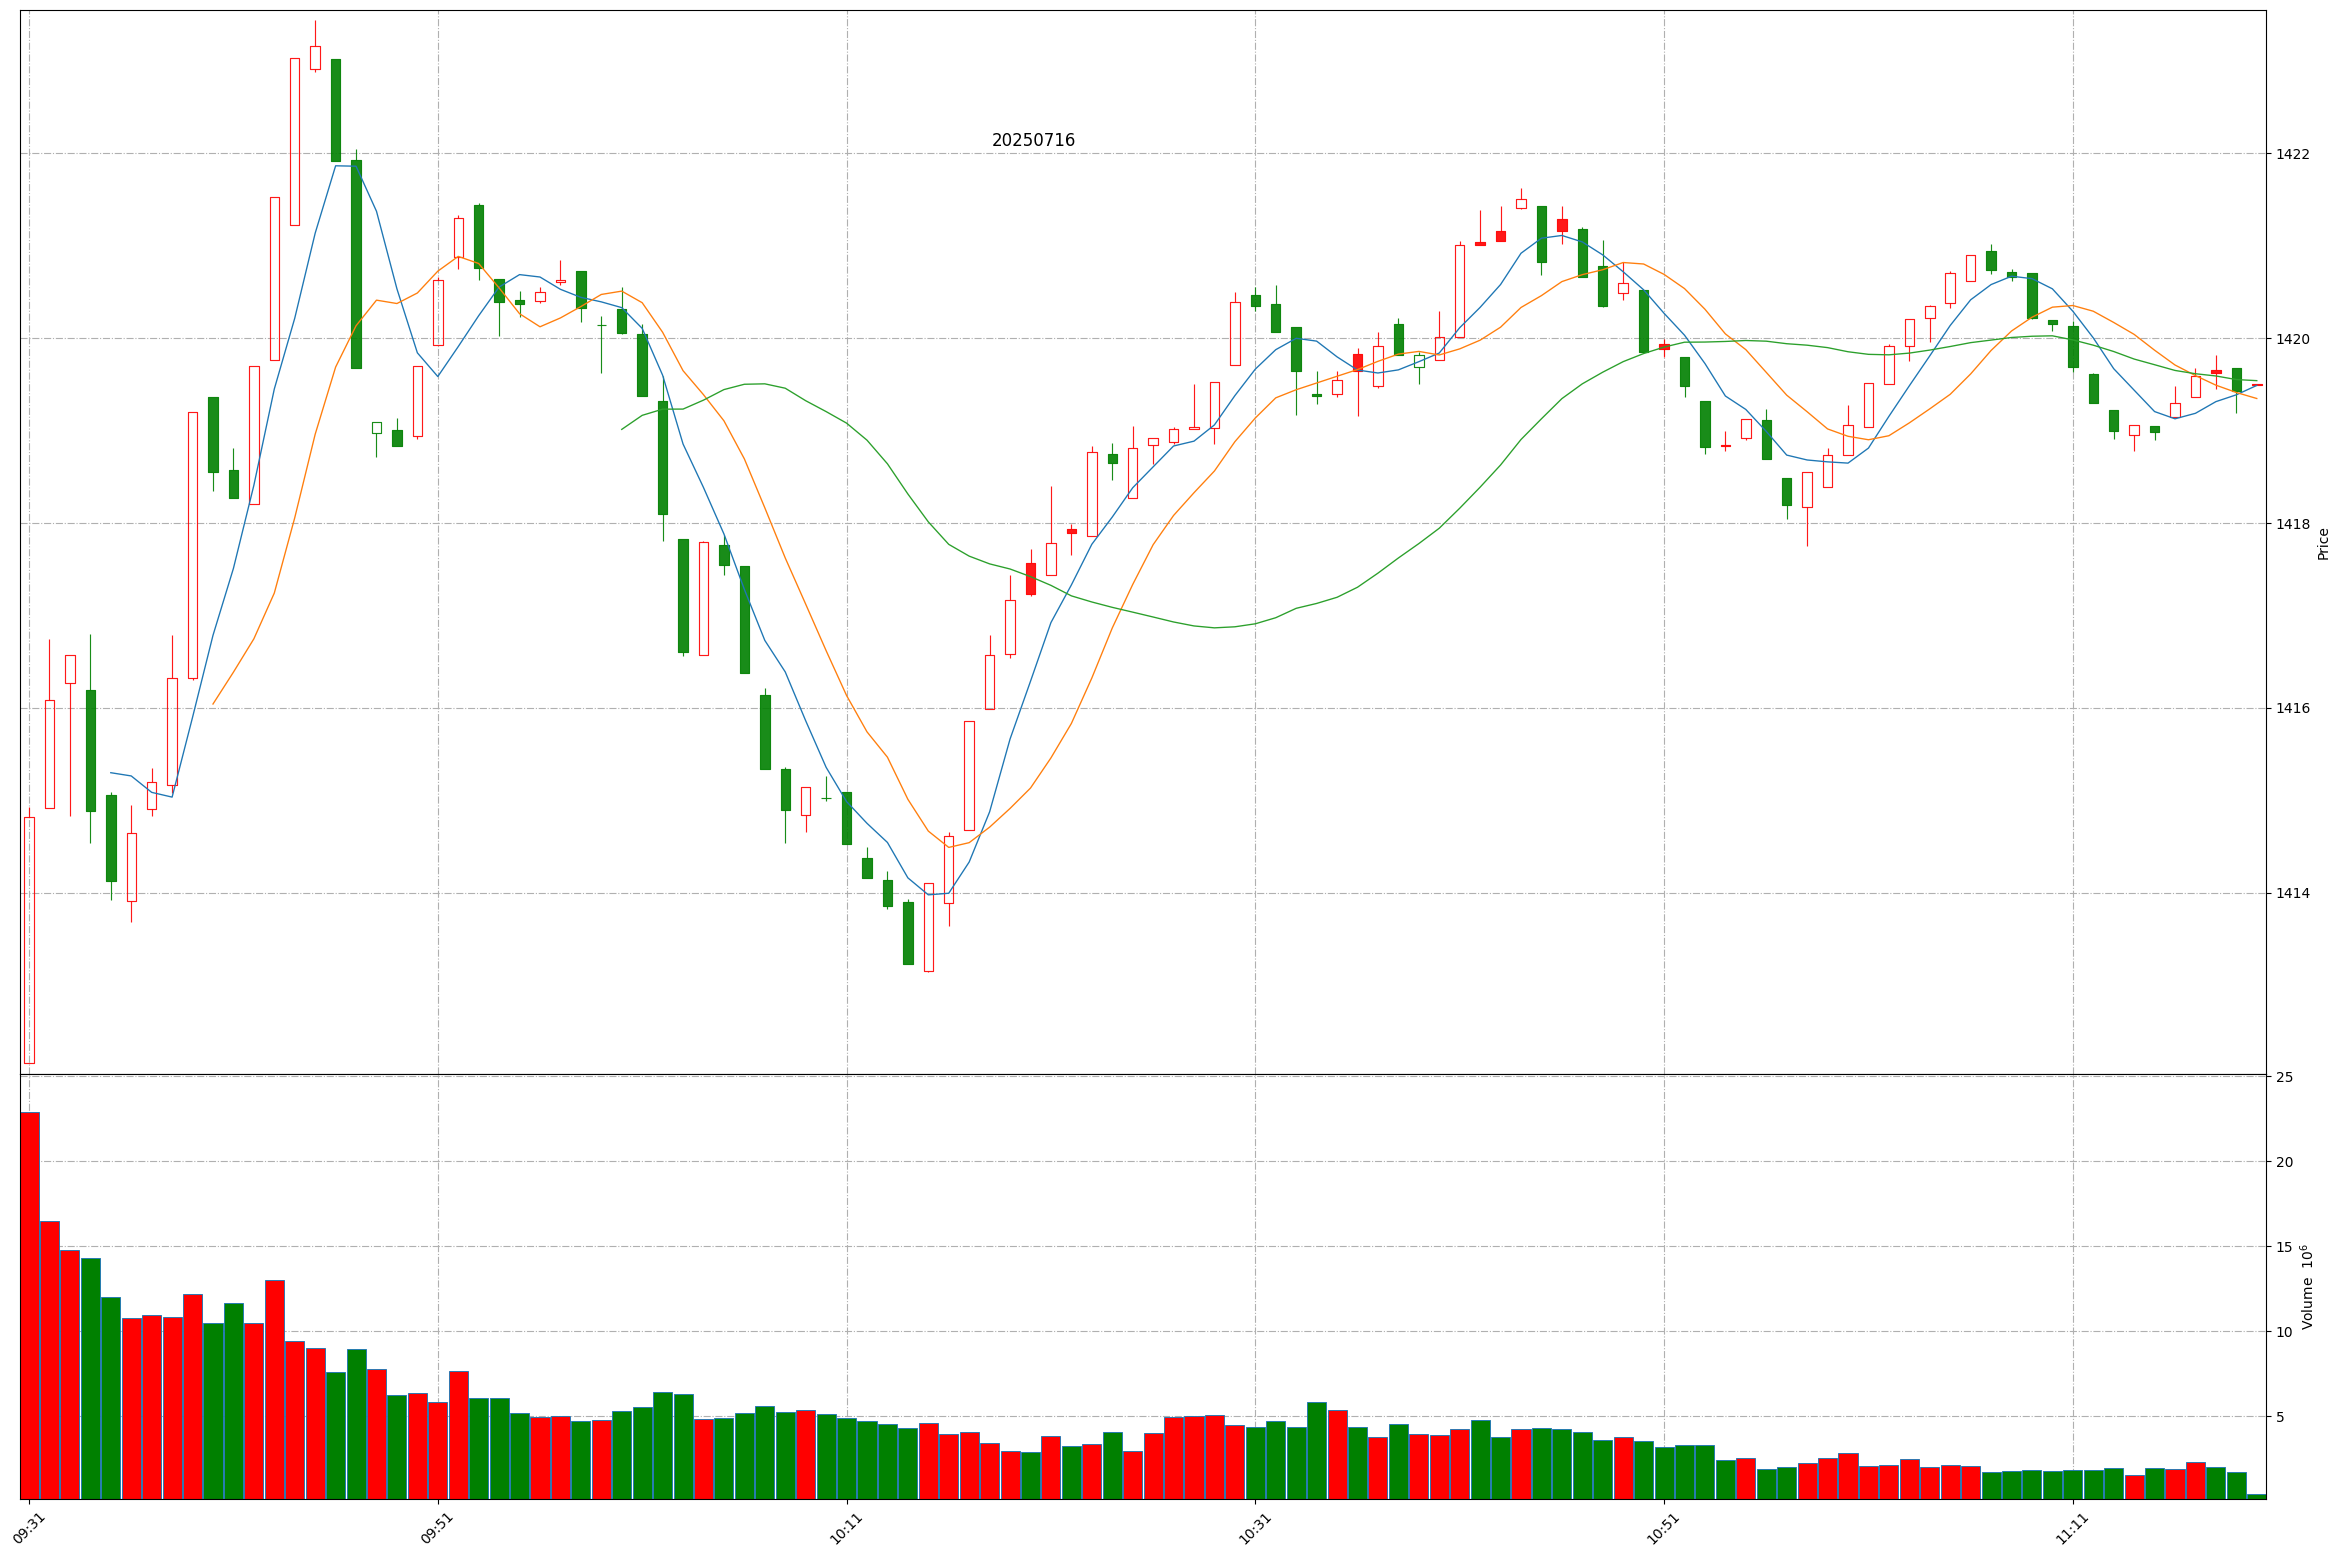
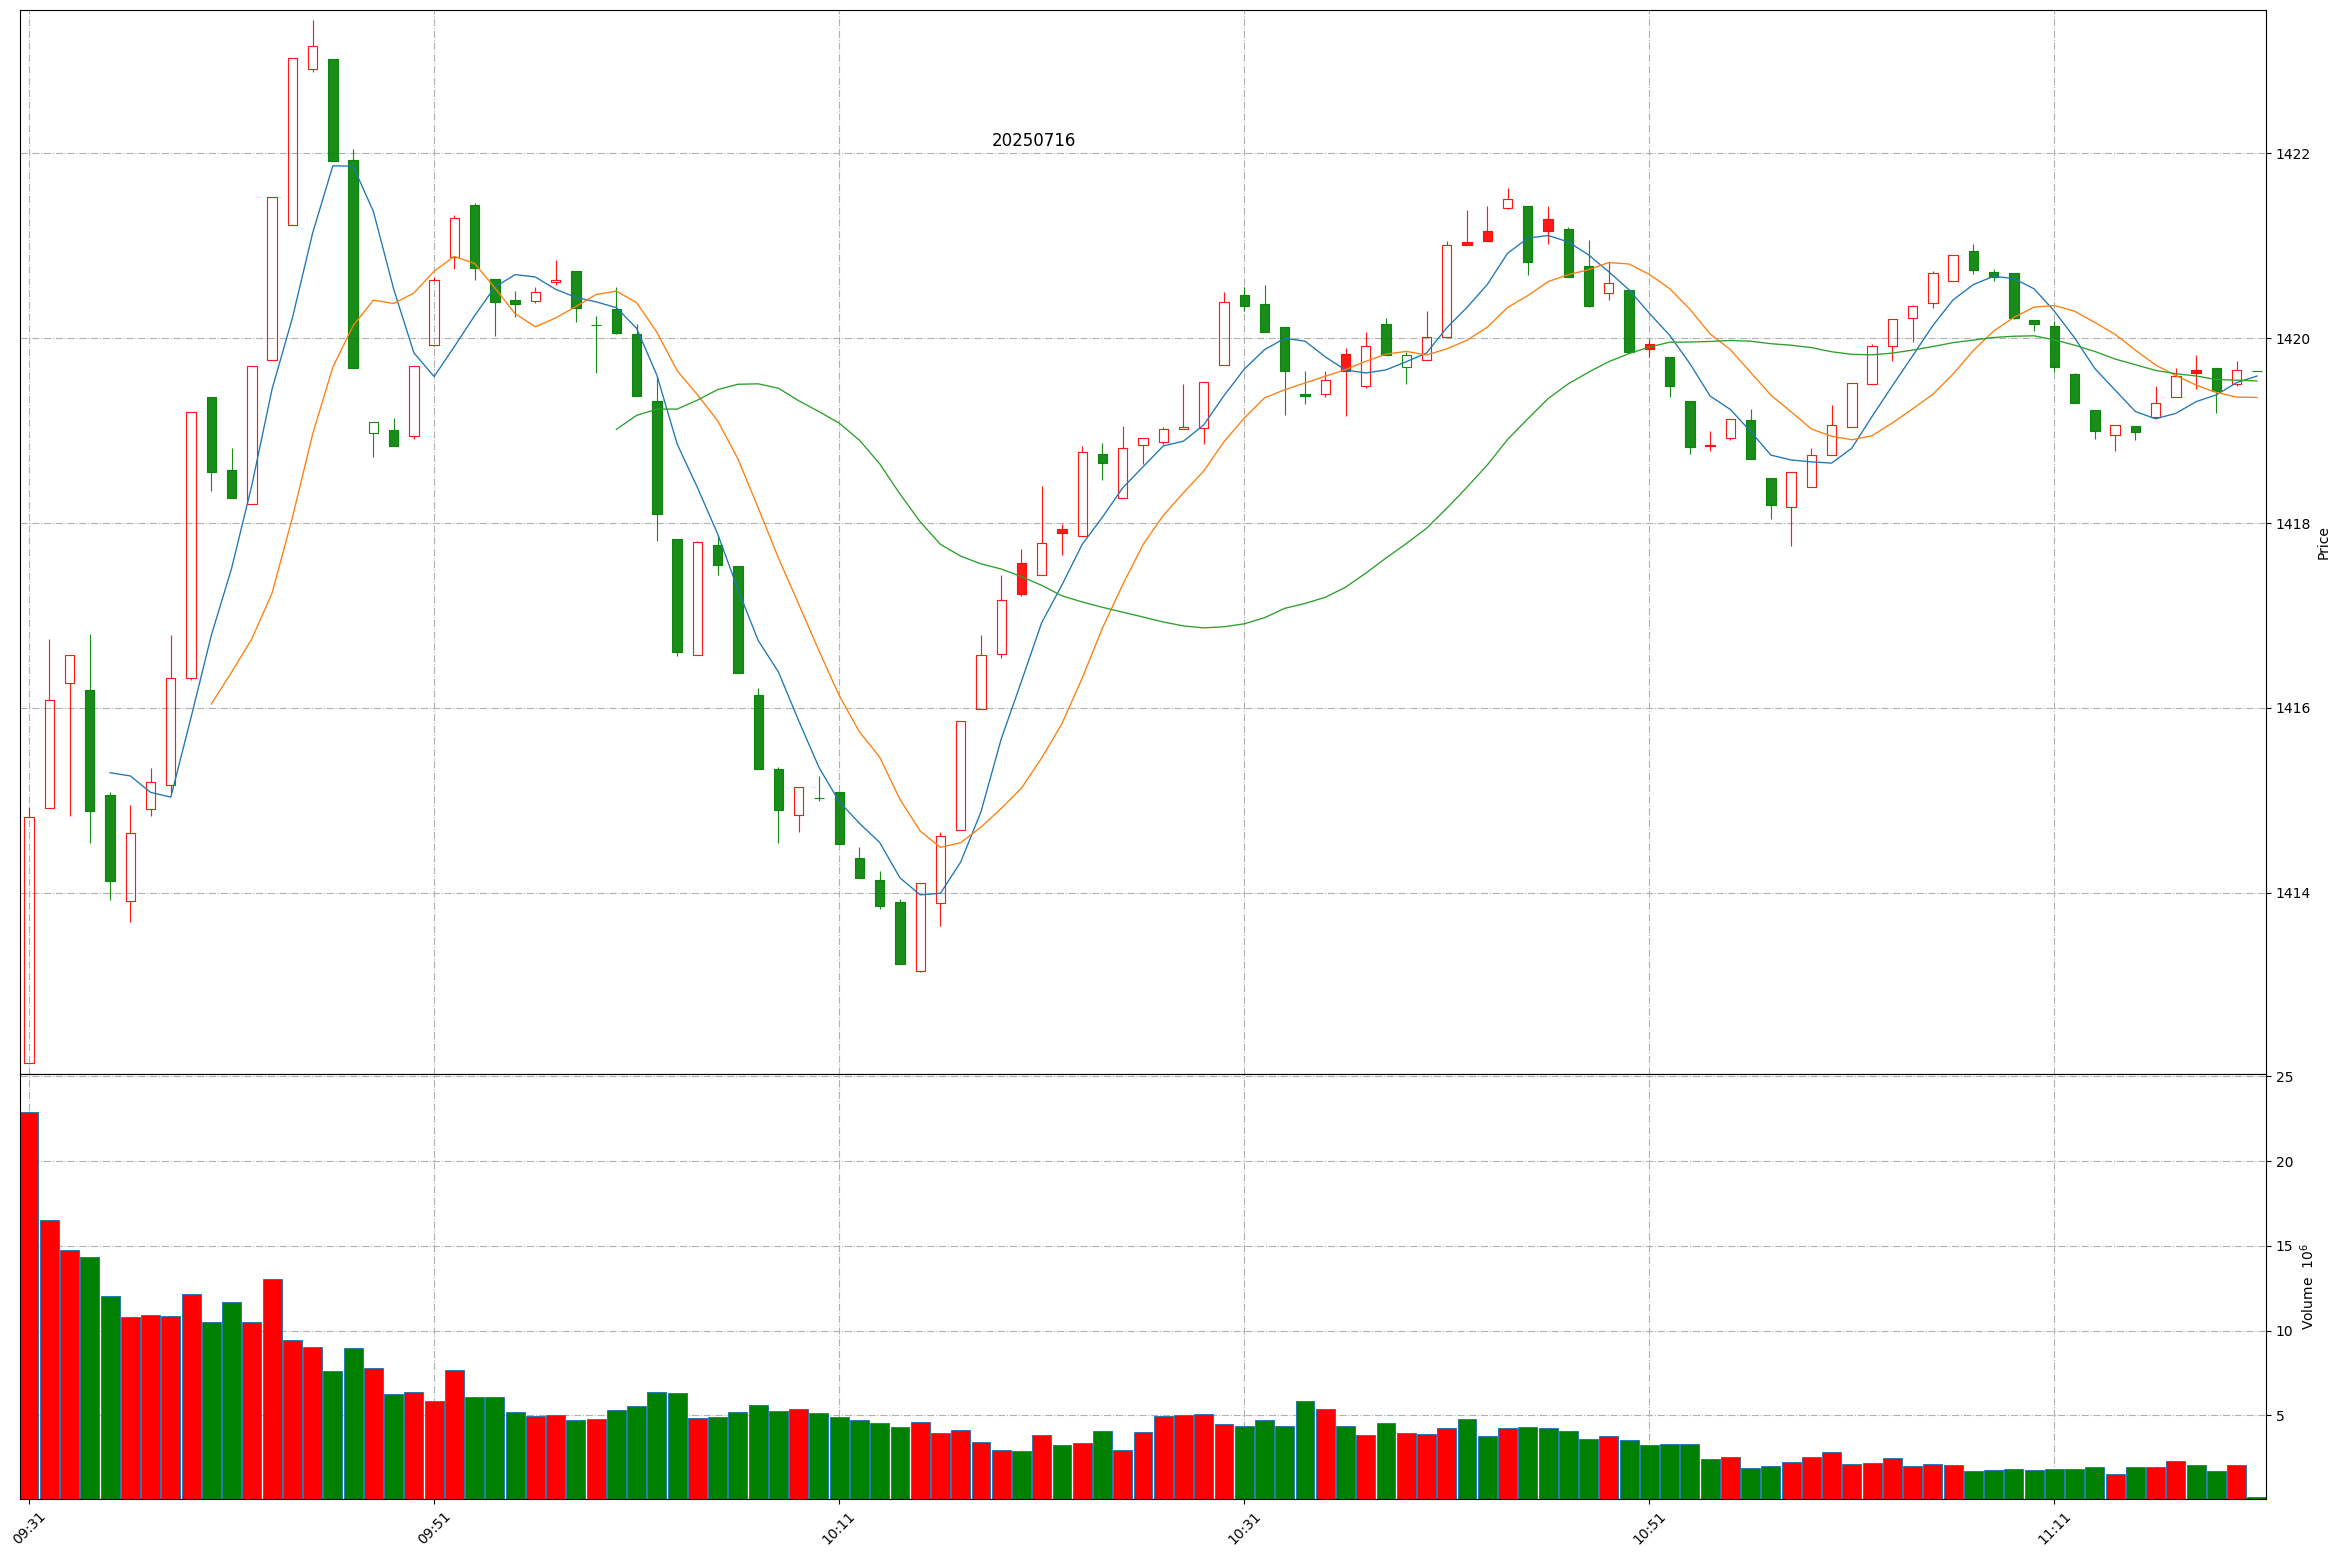
Github action update at 2025-07-16 11:20:27.

diff --git a/README.md b/README.md
@@ -1,11 +1,11 @@
 
 # Daily-A-share-market-quotes 每日 A 股指数（5min 更新）- 20250716
 
-### 上证指数 20250716 11:19
+### 上证指数 20250716 11:20
 ![](./fig/2025/7/20250716-sh000001.png)
 
-### 深证成指 20250716 11:19
+### 深证成指 20250716 11:20
 ![](./fig/2025/7/20250716-sz399001.png)
 
-### 北证50 20250716 11:19
+### 北证50 20250716 11:20
 ![](./fig/2025/7/20250716-bj899050.png)
